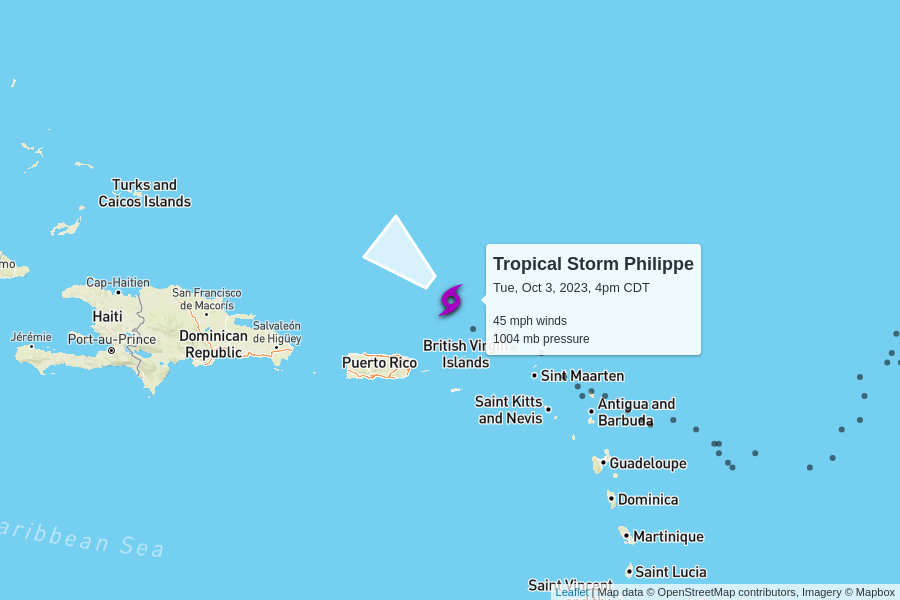
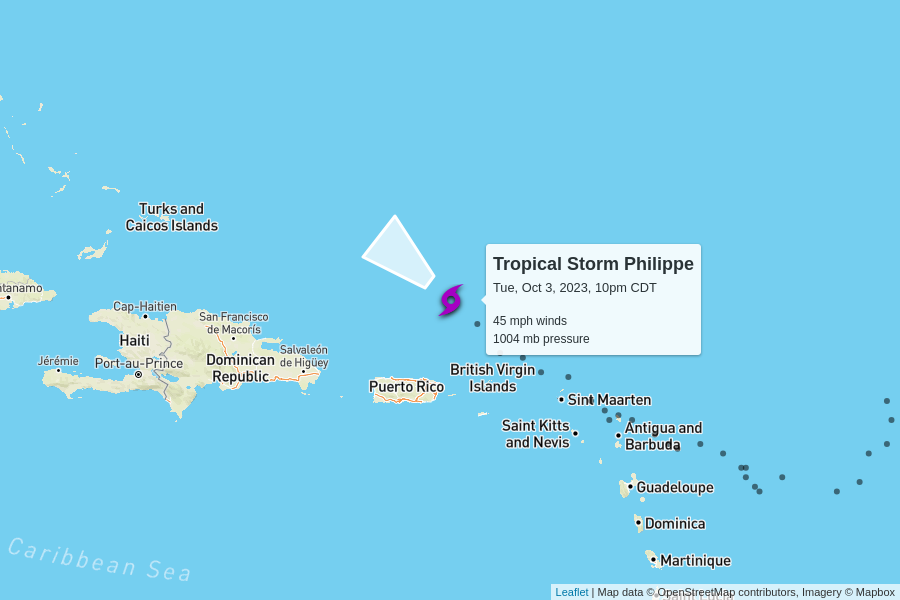
automatic update

diff --git a/docs/index.html b/docs/index.html
@@ -102,7 +102,7 @@
         <td colspan="6" class="storm category-0" >
           <h2>
             Tropical Storm Philippe
-            <p class="updated">last updated <span data-time>2023-10-03T21:00:00.000Z</span></p>
+            <p class="updated">last updated <span data-time>2023-10-04T03:00:00.000Z</span></p>
           </h2>
         </td>
       </tr>
